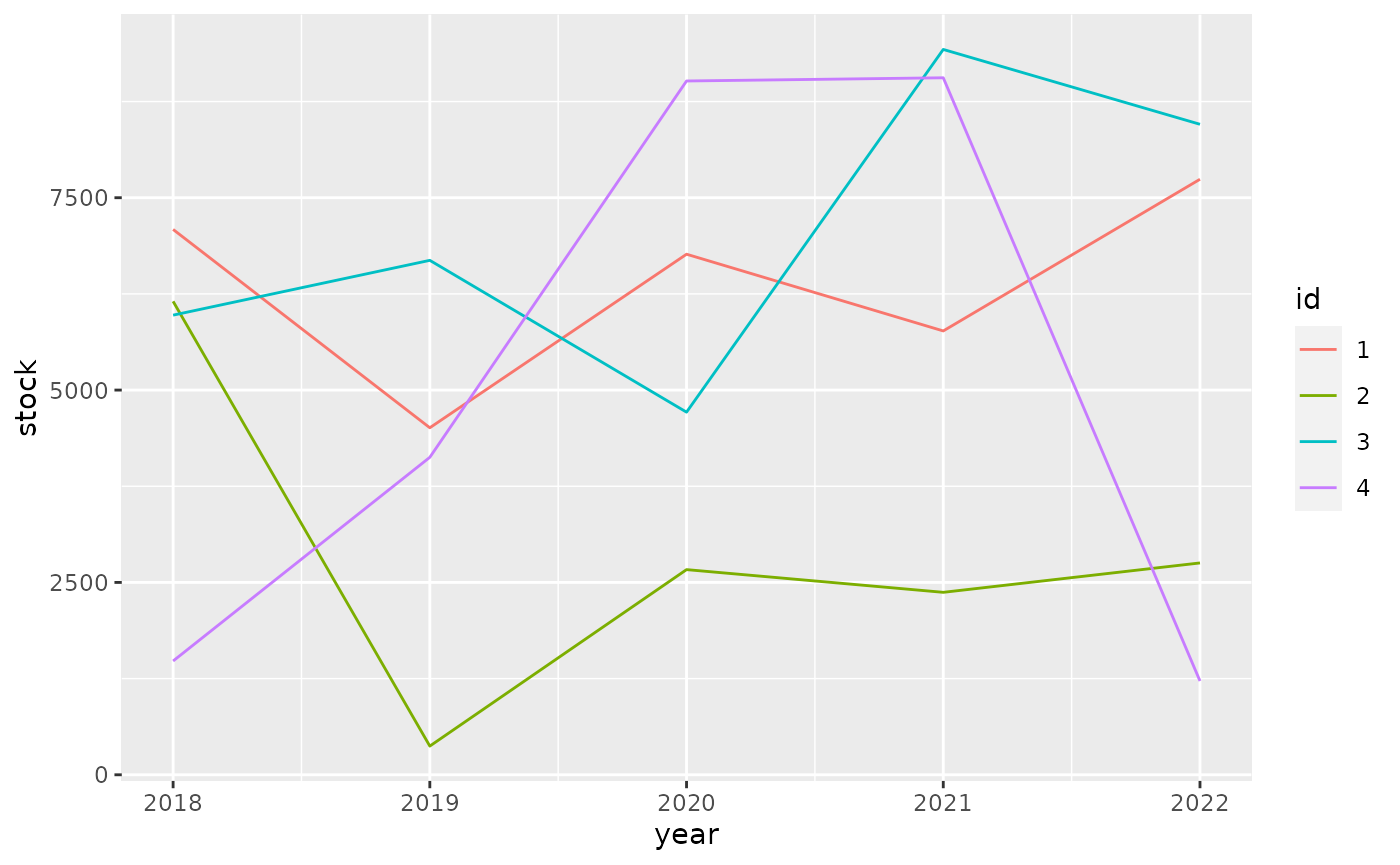
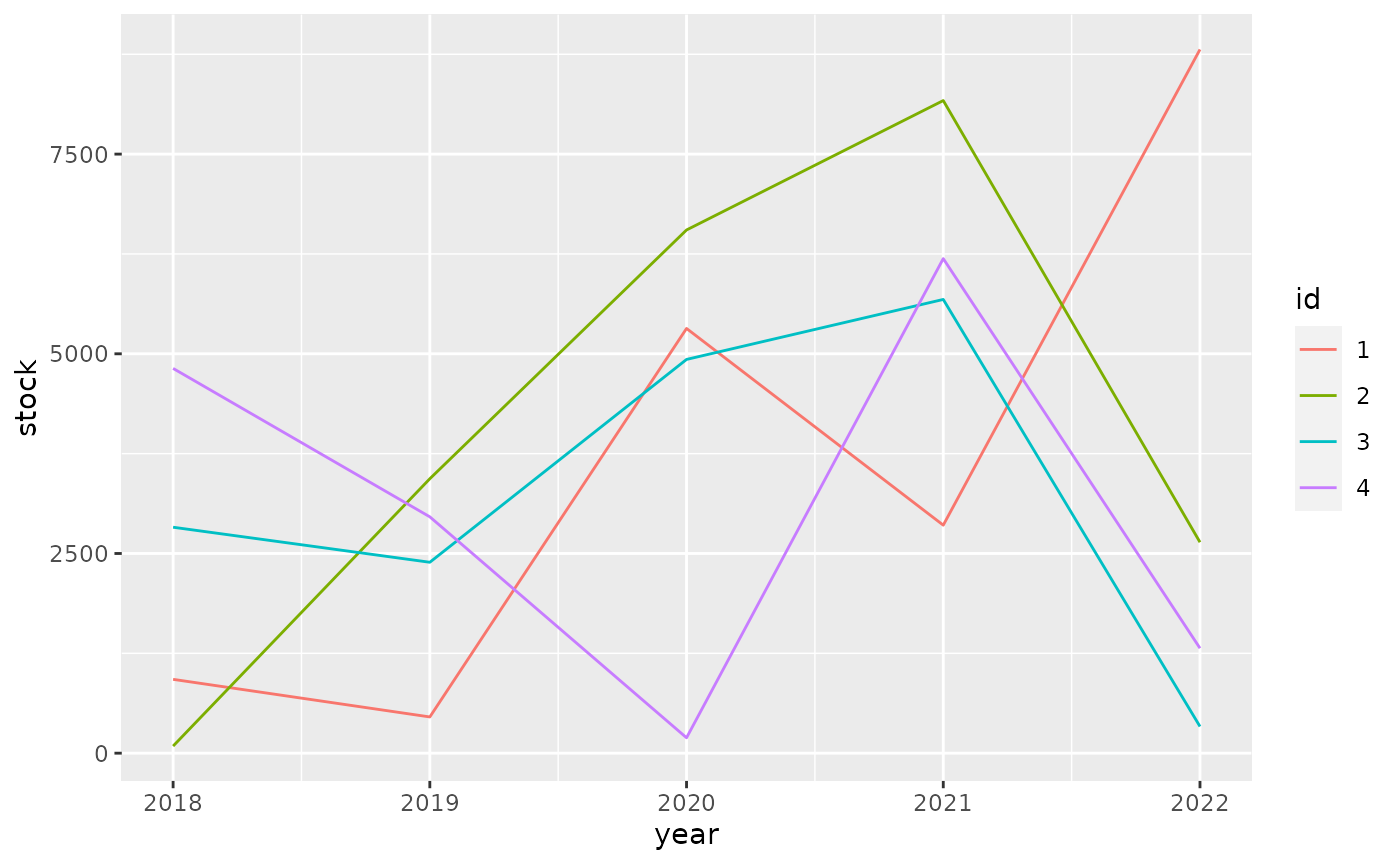
Built site for tibble: 3.1.4@c079651

diff --git a/articles/formats.html b/articles/formats.html
@@ -226,10 +226,10 @@
 <span class="co">#&gt; # A tibble: 4 × 6</span>
 <span class="co">#&gt;   id       `2018`    `2019`    `2020`    `2021`    `2022`</span>
 <span class="co">#&gt;   &lt;fct&gt; &lt;dbl:fmt&gt; &lt;dbl:fmt&gt; &lt;dbl:fmt&gt; &lt;dbl:fmt&gt; &lt;dbl:fmt&gt;</span>
-<span class="co">#&gt; 1 1     $7,087.87 $4,510.25 $6,765.71 $5,768.52 $7,739.94</span>
-<span class="co">#&gt; 2 2     $6,153.25   $373.07 $2,666.55 $2,371.38 $2,753.35</span>
-<span class="co">#&gt; 3 3     $5,973.70 $6,686.07 $4,713.03 $9,427.07 $8,454.38</span>
-<span class="co">#&gt; 4 4     $1,478.82 $4,126.36 $9,017.10 $9,058.78 $1,218.67</span></code></pre></div>
+<span class="co">#&gt; 1 1       $924.25   $453.63 $5,317.19 $2,854.73 $8,810.39</span>
+<span class="co">#&gt; 2 2        $88.80 $3,435.73 $6,550.26 $8,170.43 $2,640.84</span>
+<span class="co">#&gt; 3 3     $2,828.68 $2,389.99 $4,929.45 $5,680.52   $333.95</span>
+<span class="co">#&gt; 4 4     $4,817.02 $2,958.91   $192.98 $6,191.59 $1,313.84</span></code></pre></div>
 <p>For ggplot2 we need to do <a href="https://github.com/tidyverse/ggplot2/pull/4065" class="external-link">some work</a> to show apply the formatting to the scales.</p>
 <div class="sourceCode" id="cb6"><pre class="downlit sourceCode r">
 <code class="sourceCode R"><span class="kw"><a href="https://rdrr.io/r/base/library.html" class="external-link">library</a></span><span class="op">(</span><span class="va"><a href="https://ggplot2.tidyverse.org" class="external-link">ggplot2</a></span><span class="op">)</span>
@@ -240,10 +240,10 @@
   <span class="fu"><a href="https://ggplot2.tidyverse.org/reference/geom_path.html" class="external-link">geom_line</a></span><span class="op">(</span><span class="op">)</span></code></pre></div>
 <p><img src="formats_files/figure-html/unnamed-chunk-7-1.png" width="700"></p>
 <p>It pays off to specify formatting very early in the process. The diagram below shows the principal stages of data analysis and exploration from “R for data science”.</p>
-<div id="htmlwidget-4f905058b2e2493edf56" style="width:700px;height:432.632880098888px;" class="DiagrammeR html-widget"></div>
-<script type="application/json" data-for="htmlwidget-4f905058b2e2493edf56">{"x":{"diagram":"graph TD\n  Import --> Tidy\n  Tidy --> Transform\n  Transform --> Visualize\n  Visualize --> Communicate\n  Visualize --> Model\n  Model -.-> Transform"},"evals":[],"jsHooks":[]}</script><p>The subsequent diagram adds data formats, communication options, and explicit data formatting. The original r4ds transitions are highlighted in bold. There are two principal options where to apply formatting for results: right before communicating them, or right after importing.</p>
-<div id="htmlwidget-76f9e63eba278ebcfaab" style="width:700px;height:432.632880098888px;" class="DiagrammeR html-widget"></div>
-<script type="application/json" data-for="htmlwidget-76f9e63eba278ebcfaab">{"x":{"diagram":"graph TD\n  .csv --> Import\n  API --> Import\n  DBI --> Import\n  dbplyr --> Import\n  Import -.-> Format[Format for analysis]\n  Format -.-> Tidy\n\n  subgraph r4ds\n  Import ==> Tidy\n  Tidy ==> Transform\n  Transform ==> Visualize\n  Visualize ==> Model\n  Model -.-> Transform\n  Visualize ==> Communicate\n  end\n\n  Visualize -.-> FormatComm[Format for communication]\n  FormatComm -.-> Communicate\n\n  FormatComm -- Apply formatting early --> Format\n\n  dbplyr -.-> Tidy\n  dbplyr -.-> Transform\n  dbplyr -.-> Visualize\n\n  Communicate --> gt\n  Communicate --> ggplot2\n  Communicate --> DT\n  Communicate --> plotly"},"evals":[],"jsHooks":[]}</script><p>Applying formatting early in the process gives the added benefit of showing the data in a useful format during the “Tidy”, “Transform”, and “Visualize” stages. For this to be useful, we need to ensure that the formatting options applied early:</p>
+<div id="htmlwidget-d27c98eb8711d85780ee" style="width:700px;height:432.632880098888px;" class="DiagrammeR html-widget"></div>
+<script type="application/json" data-for="htmlwidget-d27c98eb8711d85780ee">{"x":{"diagram":"graph TD\n  Import --> Tidy\n  Tidy --> Transform\n  Transform --> Visualize\n  Visualize --> Communicate\n  Visualize --> Model\n  Model -.-> Transform"},"evals":[],"jsHooks":[]}</script><p>The subsequent diagram adds data formats, communication options, and explicit data formatting. The original r4ds transitions are highlighted in bold. There are two principal options where to apply formatting for results: right before communicating them, or right after importing.</p>
+<div id="htmlwidget-536eaa1f7c2c596df027" style="width:700px;height:432.632880098888px;" class="DiagrammeR html-widget"></div>
+<script type="application/json" data-for="htmlwidget-536eaa1f7c2c596df027">{"x":{"diagram":"graph TD\n  .csv --> Import\n  API --> Import\n  DBI --> Import\n  dbplyr --> Import\n  Import -.-> Format[Format for analysis]\n  Format -.-> Tidy\n\n  subgraph r4ds\n  Import ==> Tidy\n  Tidy ==> Transform\n  Transform ==> Visualize\n  Visualize ==> Model\n  Model -.-> Transform\n  Visualize ==> Communicate\n  end\n\n  Visualize -.-> FormatComm[Format for communication]\n  FormatComm -.-> Communicate\n\n  FormatComm -- Apply formatting early --> Format\n\n  dbplyr -.-> Tidy\n  dbplyr -.-> Transform\n  dbplyr -.-> Visualize\n\n  Communicate --> gt\n  Communicate --> ggplot2\n  Communicate --> DT\n  Communicate --> plotly"},"evals":[],"jsHooks":[]}</script><p>Applying formatting early in the process gives the added benefit of showing the data in a useful format during the “Tidy”, “Transform”, and “Visualize” stages. For this to be useful, we need to ensure that the formatting options applied early:</p>
 <ul>
 <li>give a good user experience for analysis
 <ul>

diff --git a/articles/types.html b/articles/types.html
@@ -356,8 +356,8 @@
 #&gt; $ `named list`  &lt;named list&gt; 1
 #&gt; $ factor        &lt;fct&gt; A
 #&gt; $ ordered       &lt;ord&gt; a
-#&gt; $ Date          &lt;date&gt; 2021-08-07
-#&gt; $ POSIXt        &lt;dttm&gt; 2021-08-07 13:09:38
+#&gt; $ Date          &lt;date&gt; 2021-08-08
+#&gt; $ POSIXt        &lt;dttm&gt; 2021-08-08 02:18:40
 #&gt; $ difftime      &lt;drtn&gt; 1 secs
 #&gt; $ hms           &lt;time&gt; 00:00:01
 #&gt; $ integer64     &lt;int64&gt; 10000000000
@@ -393,7 +393,7 @@
 <span class="co">#&gt;             "sym"</span>
 <span class="co">#&gt;         }, typeof(x))</span>
 <span class="co">#&gt; }</span>
-<span class="co">#&gt; &lt;bytecode: 0x55eda9670e00&gt;</span>
+<span class="co">#&gt; &lt;bytecode: 0x5581f50b7058&gt;</span>
 <span class="co">#&gt; &lt;environment: namespace:pillar&gt;</span></code></pre></div>
 </div>
   </div>
